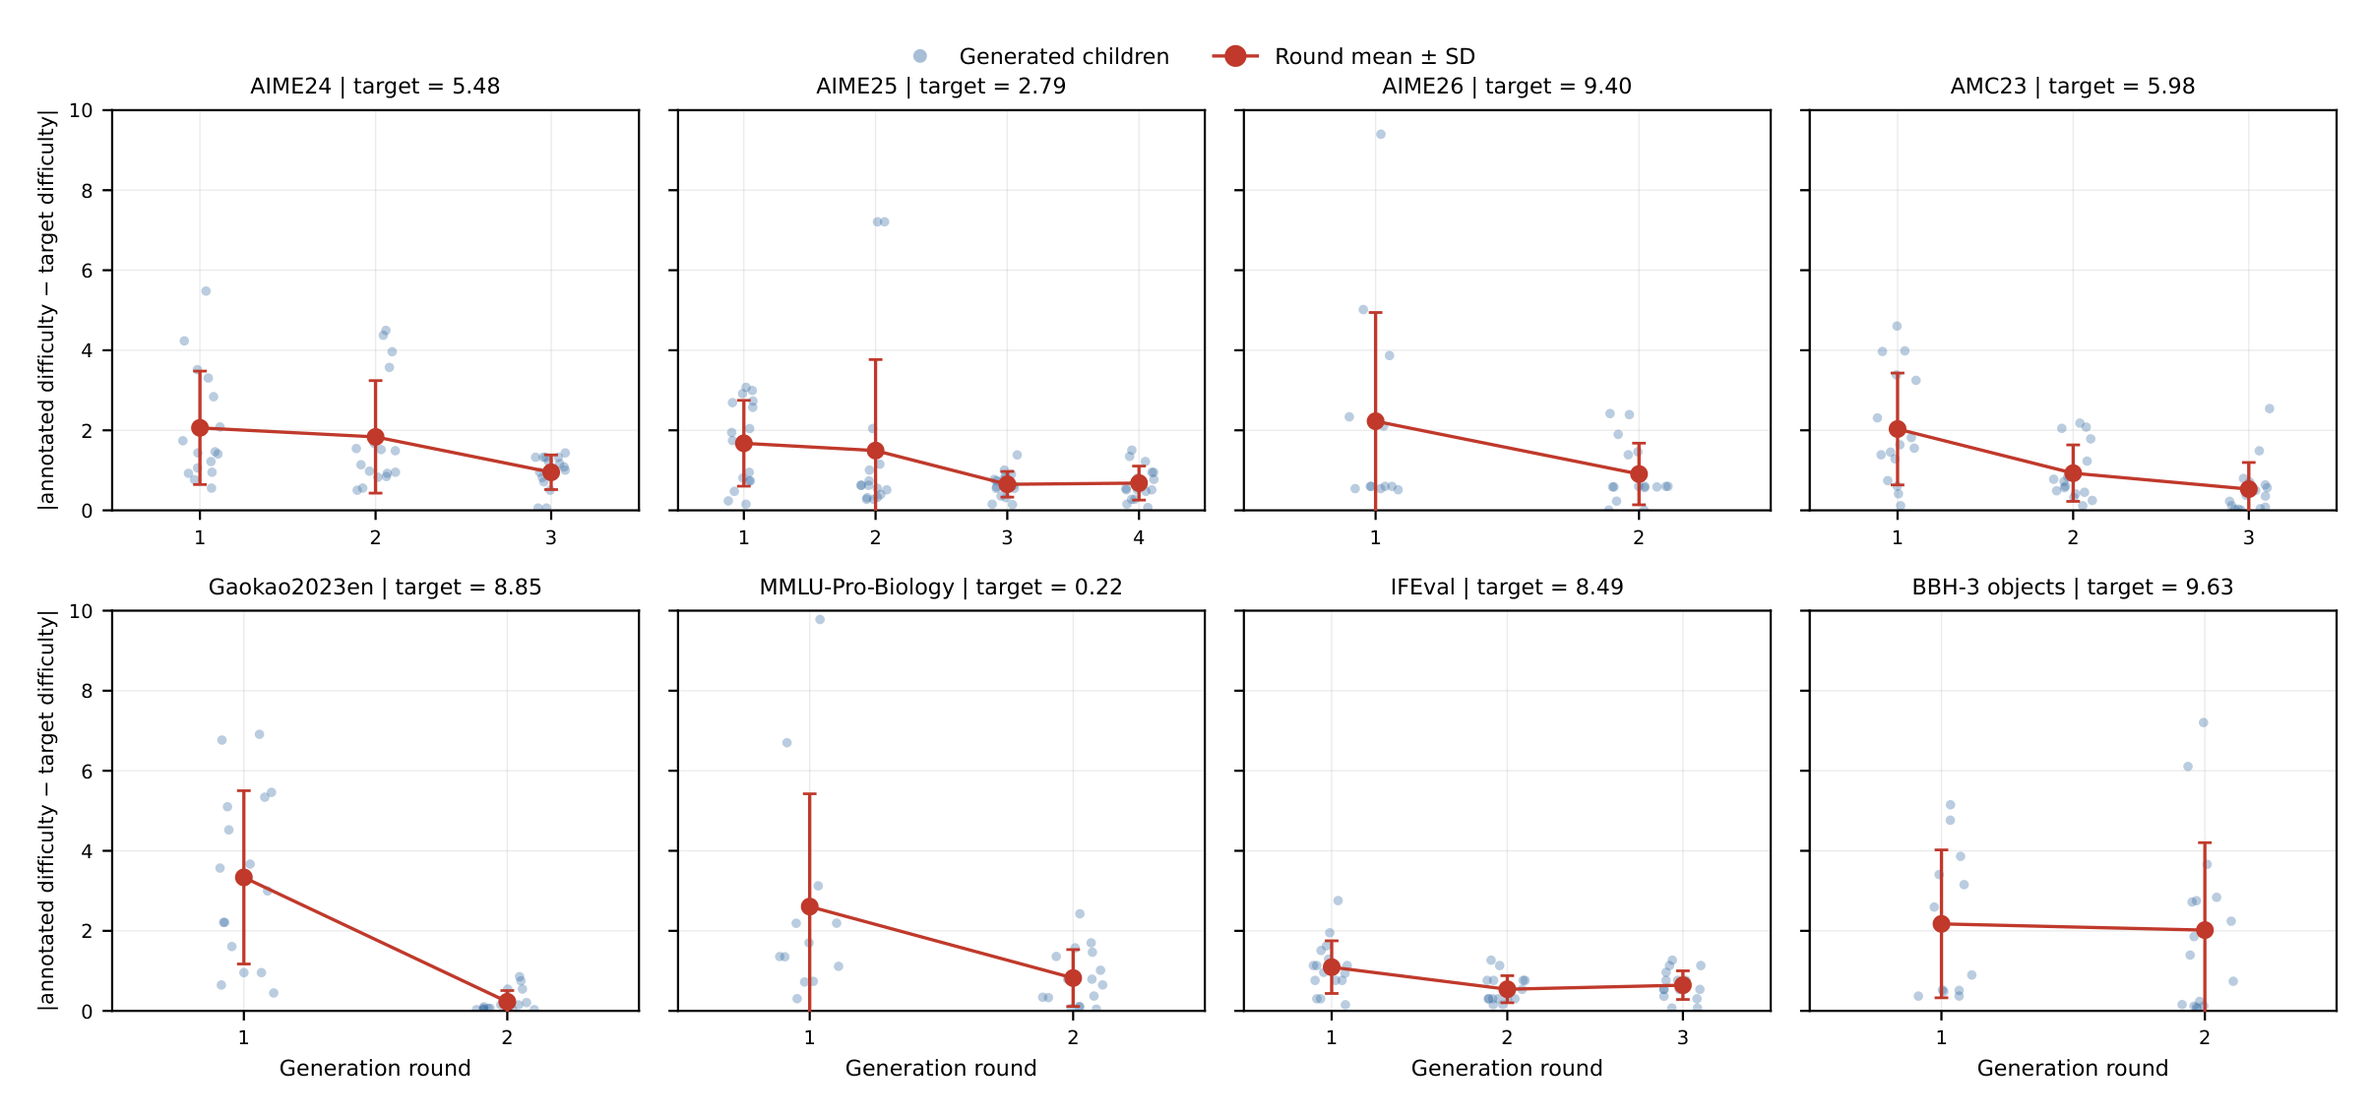
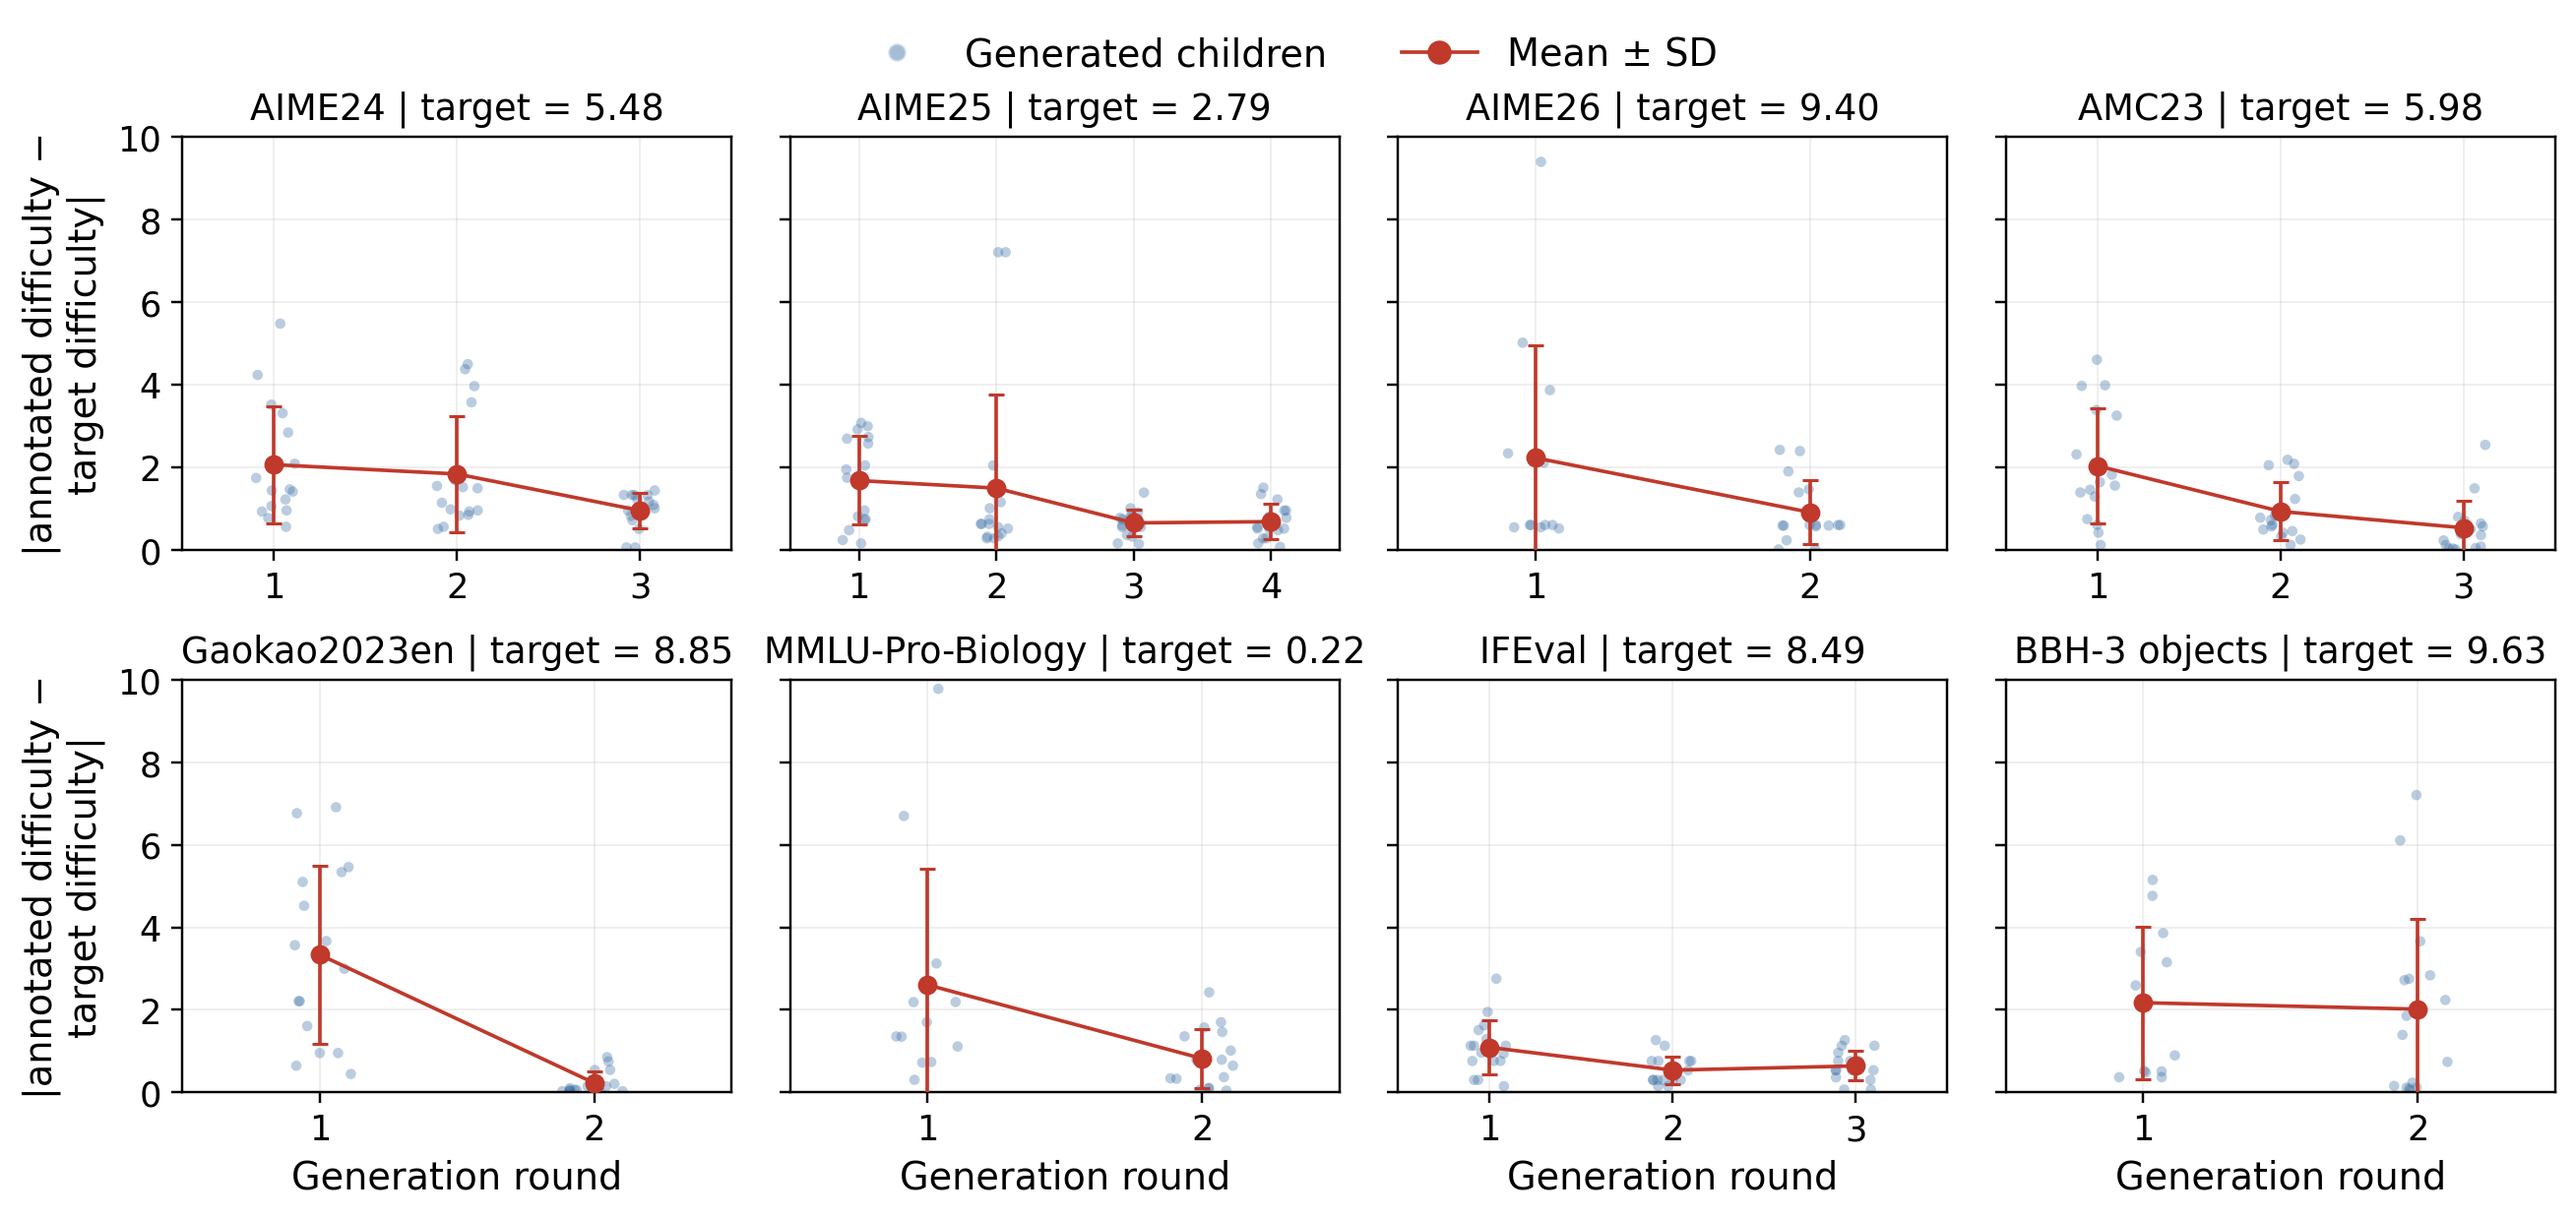
Use "Normalized Item Difficulty" axis labels and larger-font Figure 7
- Label the normalized difficulty axis "Normalized Item Difficulty" on the
  ECDF explorer, the BenchFill before/after gap strip (new axis title), and
  the measure schematic; align hover text, aria labels, and the Figure 5
  fallback caption. Tick labels and plotted data are unchanged.
- Replace static/images/fig7_multi_round.png with the regenerated
  larger-font version of Figure 7 and update its width/height attributes.

diff --git a/index.html b/index.html
@@ -150,7 +150,7 @@
       </div>
     </div>
     <figure class="schematic" aria-labelledby="schematic-cap">
-      <svg id="measure-schematic" viewBox="0 0 420 296" role="img" aria-label="Schematic: a decreasing performance curve over difficulty from 0 to 1. Vertical stems at twelve item difficulties reach up to the curve; the benchmark score is the average stem height. Below the axis, point masses mark the items, leaving an empty interval labelled as the maximum gap."></svg>
+      <svg id="measure-schematic" viewBox="0 0 420 296" role="img" aria-label="Schematic: a decreasing performance curve over normalized item difficulty from 0 to 1. Vertical stems at twelve item difficulties reach up to the curve; the benchmark score is the average stem height. Below the axis, point masses mark the items, leaving an empty interval labelled as the maximum gap."></svg>
       <figcaption id="schematic-cap"><span class="tag-illustrative">Schematic</span> The score averages the curve's height at the item difficulties (stems). Items are point masses of weight \(1/n\), and the interval between two adjacent items gets <em>no</em> weight.</figcaption>
     </figure>
   </div>
@@ -319,7 +319,7 @@
       <span><i class="lg-star">&#9733;</i>Target midpoint</span>
       <span><i class="lg-new"></i>BenchFill item</span>
     </div>
-    <svg id="gf-strip" role="img" aria-label="Item difficulties on the 0 to 1 axis with the three largest gaps highlighted"></svg>
+    <svg id="gf-strip" role="img" aria-label="Normalized item difficulties on the 0 to 1 axis with the three largest gaps highlighted"></svg>
     <div class="gf-zooms" id="gf-zooms"></div>
     <p class="explorer-note">Shown for the five benchmarks whose item-level difficulty estimates match the paper's Table 1 (AIME24, AIME25, AIME26, Gaokao2023en, IFEval); results for all eight benchmarks are in Table 2 below. The before/after Top-3 Gap Sum reduction equals the BenchFill column of Table 2. Difficulties are IRT estimates on the normalized [0,1] scale, not ground truth.</p>
   </div>
@@ -437,7 +437,7 @@
     </figure>
     <figure class="tab-panel" role="tabpanel" id="panel-fig7" aria-labelledby="tab-fig7" hidden>
       <a class="zoomable" href="./static/images/fig7_multi_round.png" data-caption="Figure 7: Multi-round target alignment during BenchFill search.">
-        <img src="./static/images/fig7_multi_round.png" width="2412" height="1136" loading="lazy" alt="Figure 7. Eight panels, one representative gap-filling case per benchmark, plotting the absolute target deviation of generated children against generation round, with round-level mean and standard deviation; the mean deviation generally decreases across rounds.">
+        <img src="./static/images/fig7_multi_round.png" width="2617" height="1238" loading="lazy" alt="Figure 7. Eight panels, one representative gap-filling case per benchmark, plotting the absolute target deviation of generated children against generation round, with round-level mean and standard deviation; the mean deviation generally decreases across rounds.">
       </a>
       <figcaption><b>Multi-round target alignment during BenchFill search.</b> Each panel shows one representative gap-filling case from a different benchmark. The horizontal axis denotes the generation round, and the vertical axis denotes the absolute target deviation, \(|\hat z-z^\star|\), for generated children. Blue points denote individual generated children, and red markers denote the round-level mean and standard deviation. Across most cases, the mean target deviation decreases over rounds, and the generated children become more concentrated around the target, showing that the search-and-annotate loop further improves target alignment beyond the rewriter&rsquo;s initial difficulty sensitivity. <span class="fig-src">(Paper, Figure 7)</span></figcaption>
     </figure>

diff --git a/static/js/charts.js b/static/js/charts.js
@@ -124,7 +124,7 @@
         staticFig.hidden = false;
         staticImg.src = "./static/images/fig5/" + slug(b.name) + ".png";
         staticImg.alt = "Paper Figure 5 panel for " + b.name + ": ECDF of normalized item difficulty (black) against the uniform reference (gray dashed), with the five largest gaps shaded.";
-        staticCap.innerHTML = "<b>" + b.name + "</b>, panel from the paper's Figure 5. Horizontal axis: normalized item difficulty (0&ndash;1); vertical axis: ECDF (0&ndash;1). Black: benchmark ECDF; gray dashed: uniform reference; colored bands: five largest gaps.";
+        staticCap.innerHTML = "<b>" + b.name + "</b>, panel from the paper's Figure 5. Horizontal axis: Normalized Item Difficulty; vertical axis: ECDF (0&ndash;1). Black: benchmark ECDF; gray dashed: uniform reference; colored bands: five largest gaps.";
         note.innerHTML = "Item-level difficulty estimates for " + b.name + " are not bundled with this page, so the explorer shows the paper's static panel. Metrics above are from Table 1.";
         return;
       }
@@ -202,7 +202,7 @@
         el("text", { x: sx(v), y: m.t + ph + 30, "text-anchor": "middle" }, ax, v.toFixed(1));
         el("text", { x: m.l - 7, y: sy(v) + 4, "text-anchor": "end" }, ax, v.toFixed(1));
       });
-      el("text", { class: "ax-title", x: m.l + pw / 2, y: H - 8, "text-anchor": "middle" }, svg, "Normalized item difficulty");
+      el("text", { class: "ax-title", x: m.l + pw / 2, y: H - 8, "text-anchor": "middle" }, svg, "Normalized Item Difficulty");
       el("text", { class: "ax-title", x: 12, y: m.t + ph / 2, "text-anchor": "middle", transform: "rotate(-90 12 " + (m.t + ph / 2) + ")" }, svg, "ECDF");
 
       if (optRug.checked) {
@@ -227,7 +227,7 @@
         dotG.setAttribute("cx", sx(x)); dotG.setAttribute("cy", sy(G));
         var inGap = null;
         gaps.forEach(function (g) { if (x >= g.lo && x <= g.hi && g.w > 0) inGap = g; });
-        var html = '<span class="tt-k">difficulty</span> <b>' + fmt(x, 3) + '</b><br><span class="tt-k">benchmark ECDF</span> <b>' + fmt(F, 3) +
+        var html = '<span class="tt-k">normalized item difficulty</span> <b>' + fmt(x, 3) + '</b><br><span class="tt-k">benchmark ECDF</span> <b>' + fmt(F, 3) +
           '</b><br><span class="tt-k">uniform reference</span> <b>' + fmt(G, 3) + "</b>";
         if (inGap) html += '<br><span style="color:#2f6f3c">gap #' + inGap.rank + ": [" + fmt(inGap.lo) + ", " + fmt(inGap.hi) + "], width <b>" + fmt(inGap.w) + "</b></span>";
         tip.innerHTML = html;
@@ -328,6 +328,7 @@
           el("text", { x: sx(v), y: axY + 16, "text-anchor": "middle", "font-size": 10.5, fill: "#5f6368" }, svg, opts.tickFmt(v));
         });
       }
+      if (opts.axisTitle) el("text", { class: "ax-title", x: W / 2, y: axY + 36, "text-anchor": "middle" }, svg, opts.axisTitle);
       return sx;
     }
 
@@ -346,8 +347,9 @@
 
       var W = width;
       drawAxisStrip(strip, W, 0, 1, b.items, gaps, after, {
-        H: 104, axY: 64, bandTop: 22, starY: 38, starSize: 15, tickH: 18, tickW: 1, diamond: 5,
-        rankLabels: true, widthLabels: false, ticks: [0, 0.2, 0.4, 0.6, 0.8, 1], tickFmt: function (v) { return v.toFixed(1); }
+        H: 112, axY: 64, bandTop: 22, starY: 38, starSize: 15, tickH: 18, tickW: 1, diamond: 5,
+        rankLabels: true, widthLabels: false, ticks: [0, 0.2, 0.4, 0.6, 0.8, 1], tickFmt: function (v) { return v.toFixed(1); },
+        axisTitle: "Normalized Item Difficulty"
       });
 
       clear(zooms);

diff --git a/static/js/main.js b/static/js/main.js
@@ -172,7 +172,7 @@
     mathText(svg, { x: X0 + 8, y: YTOP - 6, "font-size": 13, fill: "#3c4043" }, [["s", "i"], ["θ", "sub"], ["(", ""], ["z", "i"], [")", ""]]);
     el("text", { x: X0, y: YAX + 15, "text-anchor": "middle", "font-size": 11, fill: "#5f6368" }, svg, "0");
     el("text", { x: X1, y: YAX + 15, "text-anchor": "middle", "font-size": 11, fill: "#5f6368" }, svg, "1");
-    el("text", { x: (X0 + X1) / 2, y: YAX + 15, "text-anchor": "middle", "font-size": 11.5, fill: "#3c4043" }, svg, "difficulty");
+    el("text", { x: (X0 + X1) / 2, y: YAX + 15, "text-anchor": "middle", "font-size": 11.5, fill: "#3c4043" }, svg, "Normalized Item Difficulty");
 
     // curve
     var d = "";
